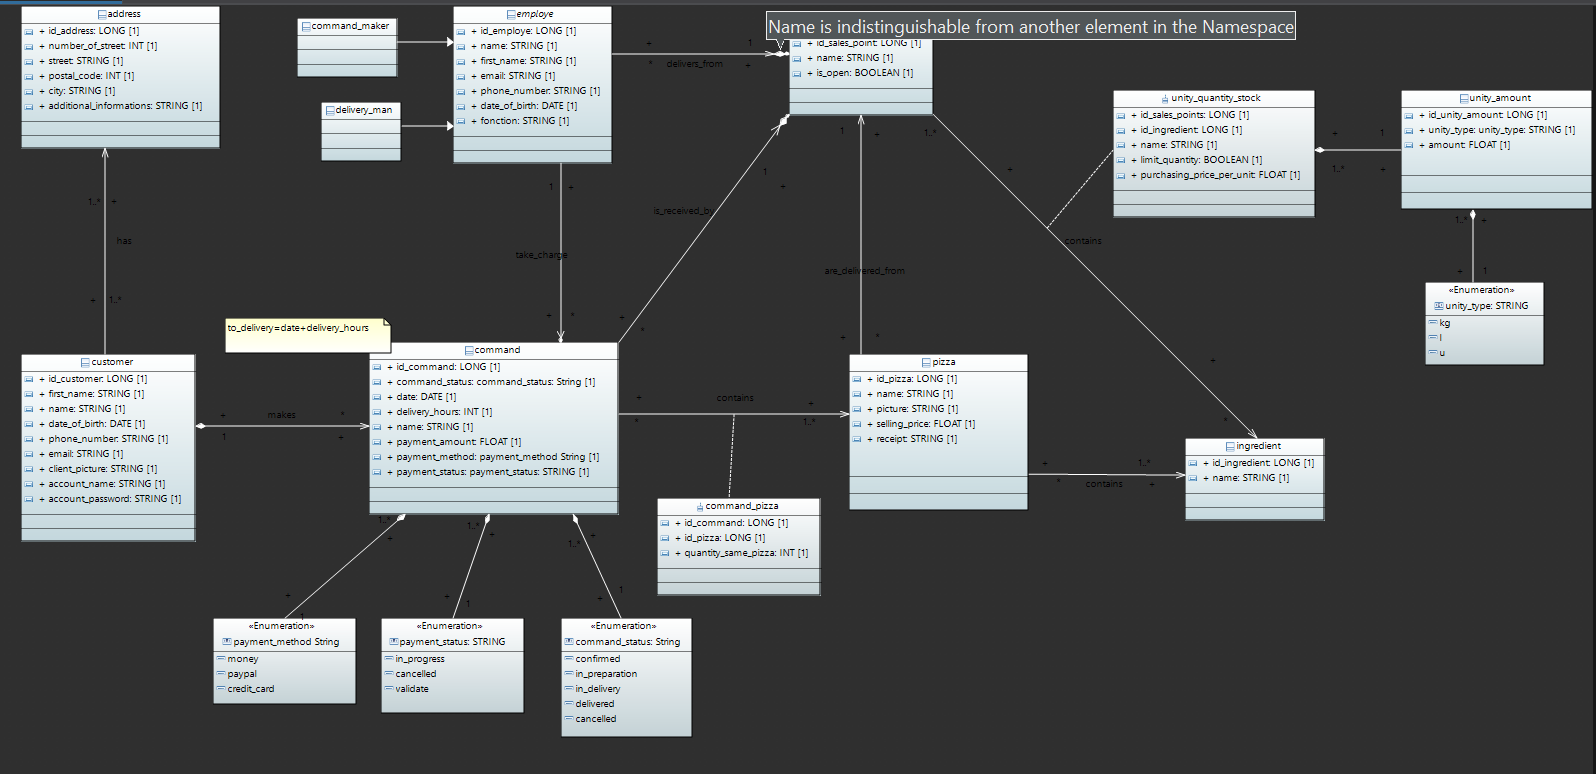
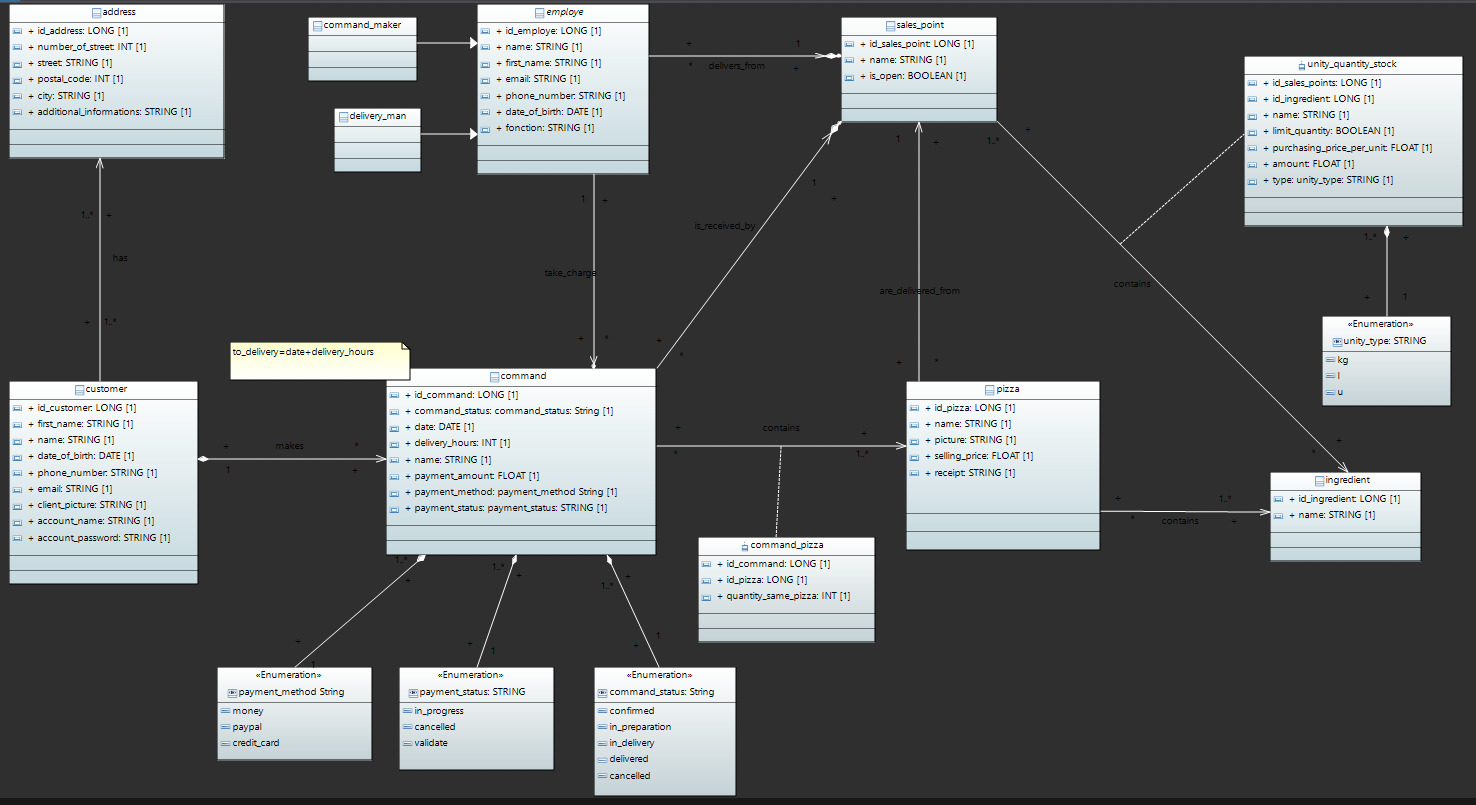
Modify class diagram, relational model and all the SQL scripts for showing the new architecture. the unity_amount table has been deleted. the amount of ingredient is now an attribute of the unity_quantity_stock table.

diff --git a/README.md b/README.md
@@ -59,7 +59,6 @@ The system requires a number of other classes:
 - command_pizza : Indication of the number of the same pizza in one command
 - ingredient: The list of ingredients needed to make a pizza.
 - unity_quantity_stock: The inventory of ingredients available for each point of sale.
-- unity_amount: amount of the ingredients.
 - unity_type: Unity types of the ingredients.
 
 ![Class diagram](Technical_specifications/class_diagram.png)
